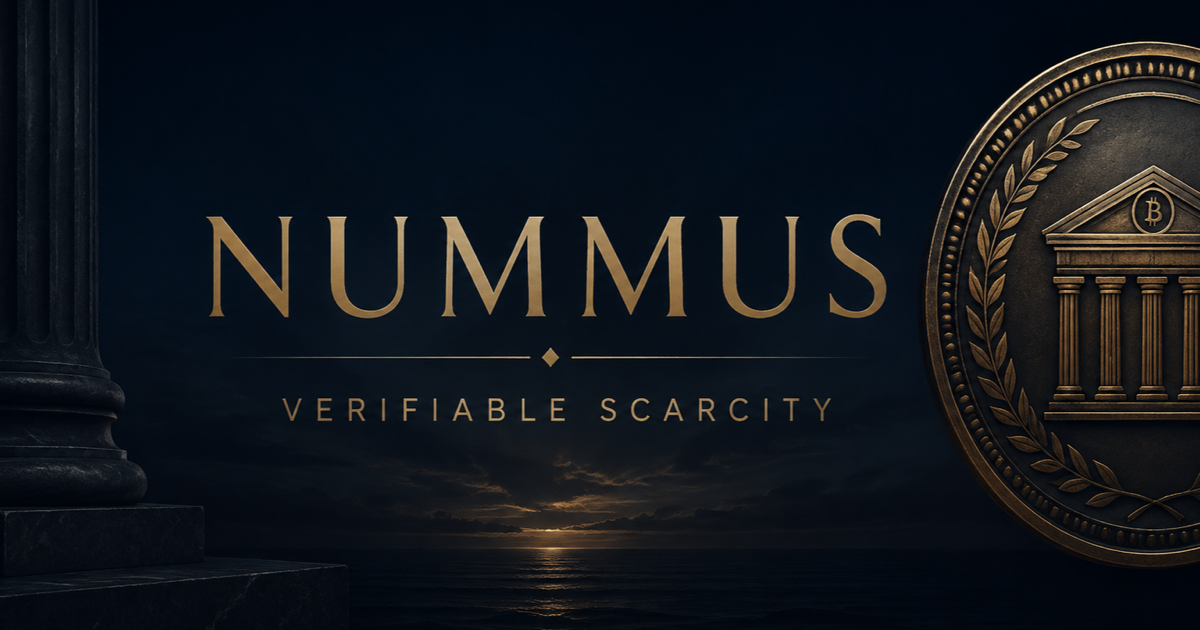
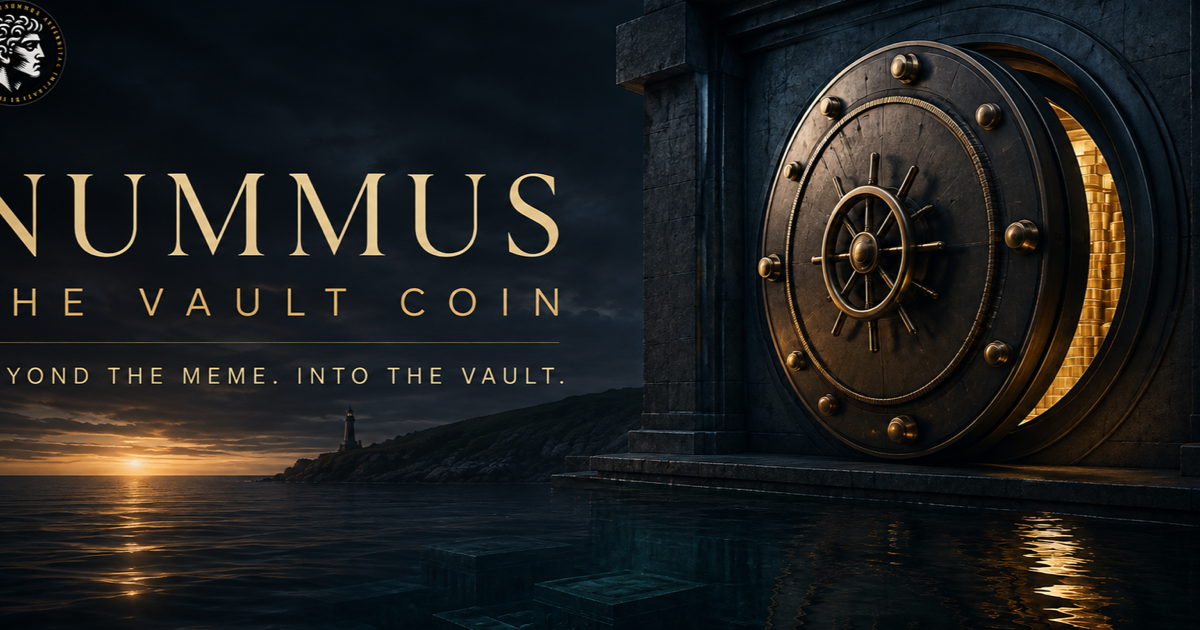
Introduce the NUMMUS Vault Coin identity

diff --git a/styles.css b/styles.css
@@ -55,20 +55,40 @@ a { color: inherit; }
 .network { margin: 0; color: var(--muted); font-size: .72rem; text-transform: uppercase; letter-spacing: .18em; }
 .network span, .status span { display: inline-block; width: 6px; height: 6px; margin-right: 9px; border-radius: 50%; background: var(--gold); box-shadow: 0 0 0 4px rgba(220,192,120,.09); }
 
-.hero { align-self: center; display: grid; grid-template-columns: minmax(0, 1.03fr) minmax(520px, .97fr); align-items: end; gap: clamp(52px, 7vw, 116px); }
+.hero {
+  position: relative; isolation: isolate; overflow: hidden; align-self: center;
+  min-height: clamp(470px, 64vh, 650px); display: grid;
+  grid-template-columns: minmax(0, 1.05fr) minmax(440px, .72fr); align-items: end;
+  gap: clamp(42px, 6vw, 96px); padding: clamp(34px, 5vh, 58px);
+  border: 1px solid rgba(220, 192, 120, .19); border-radius: 2px;
+  background: #081419; box-shadow: 0 30px 90px rgba(0, 0, 0, .32);
+}
+.hero::after {
+  content: ""; position: absolute; inset: 0; z-index: -1;
+  background:
+    linear-gradient(90deg, rgba(4, 13, 17, .97) 0%, rgba(4, 13, 17, .82) 38%, rgba(4, 13, 17, .25) 67%, rgba(4, 13, 17, .66) 100%),
+    linear-gradient(0deg, rgba(4, 13, 17, .68), transparent 45%);
+}
+.hero-art { position: absolute; inset: 0; z-index: -2; margin: 0; }
+.hero-art img { width: 100%; height: 100%; object-fit: cover; object-position: center; filter: saturate(.74) contrast(1.04); }
+.hero-copy, .metrics { position: relative; z-index: 1; }
 .eyebrow { margin: 0 0 22px; color: var(--gold); font-size: .71rem; text-transform: uppercase; letter-spacing: .28em; }
-h1 { margin: 0; max-width: 760px; font-family: Georgia, "Times New Roman", serif; font-weight: 400; font-size: clamp(3.4rem, 5.8vw, 6.9rem); line-height: .92; letter-spacing: -.055em; }
+h1 { margin: 0; max-width: 760px; font-family: Georgia, "Times New Roman", serif; font-weight: 400; font-size: clamp(3.25rem, 5.25vw, 6.25rem); line-height: .92; letter-spacing: -.055em; text-wrap: balance; }
 h1 em { color: var(--gold-pale); font-weight: 400; }
 .intro { max-width: 570px; margin: clamp(24px, 4vh, 40px) 0 0; color: #bac5c0; font-size: clamp(.98rem, 1.2vw, 1.14rem); line-height: 1.7; }
+.intro strong { color: var(--gold-pale); font-weight: 600; }
+.thesis { display: flex; align-items: center; gap: 13px; margin: 25px 0 0; color: #899a94; font-size: .62rem; letter-spacing: .16em; text-transform: uppercase; }
+.thesis span { padding: 7px 10px; border: 1px solid var(--line); color: var(--gold-pale); }
 
-.metrics { display: grid; border-top: 1px solid var(--line); }
-.metric-card { position: relative; padding: clamp(21px, 3.2vh, 36px) 0 clamp(19px, 2.8vh, 32px); border-bottom: 1px solid var(--line); }
+.metrics { display: grid; padding: 4px clamp(20px, 2.2vw, 32px); border: 1px solid rgba(220,192,120,.2); background: rgba(4, 14, 18, .78); backdrop-filter: blur(12px); }
+.metric-card { position: relative; padding: clamp(20px, 3vh, 32px) 0 clamp(18px, 2.7vh, 29px); border-bottom: 1px solid var(--line); }
+.metric-card:last-child { border-bottom: 0; }
 .metric-label { display: flex; gap: 18px; margin: 0 0 14px; color: var(--muted); font-size: .68rem; letter-spacing: .2em; text-transform: uppercase; }
 .metric-index { color: var(--gold); }
 .metric-value { margin: 0; white-space: nowrap; font-size: clamp(2.2rem, 4.25vw, 5rem); line-height: 1; letter-spacing: -.055em; font-variant-numeric: tabular-nums lining-nums; }
 .metric-value small { color: var(--gold); font-size: .22em; letter-spacing: .16em; font-weight: 650; }
 .metric-context { margin: 12px 0 0; color: #c5cfca; font-family: Georgia, serif; font-style: italic; font-size: .94rem; }
-.metric-date { position: absolute; right: 0; top: 30px; margin: 0; color: #71827d; font-size: .63rem; letter-spacing: .08em; text-transform: uppercase; }
+.metric-date { position: absolute; right: 0; top: 28px; margin: 0; color: #71827d; font-size: .6rem; letter-spacing: .08em; text-transform: uppercase; }
 
 .footer { padding-top: 20px; border-top: 1px solid rgba(255,255,255,.09); gap: 32px; }
 .verification p { margin: 0; color: var(--muted); font-size: .7rem; letter-spacing: .035em; }
@@ -83,9 +103,10 @@ a:focus-visible { outline: 2px solid var(--gold-pale); outline-offset: 4px; }
 
 @media (max-width: 980px) {
   .shell { min-height: 100dvh; }
-  .hero { grid-template-columns: 1fr; align-items: start; gap: 42px; }
+  .hero { grid-template-columns: 1fr; align-items: start; gap: 42px; padding: 40px; }
   h1 { font-size: clamp(3.3rem, 10vw, 5.8rem); }
   .metrics { grid-template-columns: 1fr 1fr; gap: 28px; }
+  .metric-card { border-bottom: 0; }
   .metric-value { font-size: clamp(2.2rem, 6.5vw, 4.2rem); }
 }
 
@@ -95,12 +116,17 @@ a:focus-visible { outline: 2px solid var(--gold-pale); outline-offset: 4px; }
   .brand { font-size: .92rem; letter-spacing: .22em; }
   .brand img { width: 48px; }
   .network { max-width: 130px; padding-top: 7px; text-align: right; font-size: .56rem; line-height: 1.55; letter-spacing: .11em; }
-  .hero { gap: 40px; }
+  .hero { display: grid; gap: 0; min-height: auto; padding: 0; border-left: 0; border-right: 0; }
+  .hero::after { background: linear-gradient(0deg, #071419 0%, rgba(7,20,25,.96) 43%, rgba(7,20,25,.08) 78%); }
+  .hero-art { position: relative; z-index: -2; height: 280px; grid-row: 1; }
+  .hero-art img { object-position: 62% center; }
+  .hero-copy { grid-row: 2; margin-top: -24px; padding: 0 20px 34px; }
   .eyebrow { margin-bottom: 16px; font-size: .62rem; }
   h1 { font-size: clamp(3rem, 14.5vw, 4.8rem); line-height: .94; }
   .intro { margin-top: 24px; font-size: .95rem; line-height: 1.62; }
-  .metrics { grid-template-columns: 1fr; gap: 0; }
+  .metrics { grid-row: 3; grid-template-columns: 1fr; gap: 0; margin: 0 20px 26px; padding: 0 18px; }
   .metric-card { padding: 23px 0 22px; }
+  .metric-card:first-child { border-bottom: 1px solid var(--line); }
   .metric-value { font-size: clamp(2.35rem, 11.2vw, 4rem); }
   .metric-date { top: 26px; }
   .footer { align-items: flex-start; flex-direction: column; gap: 22px; }
@@ -109,7 +135,7 @@ a:focus-visible { outline: 2px solid var(--gold-pale); outline-offset: 4px; }
 
 @media (max-height: 760px) and (min-width: 981px) {
   .shell { padding-top: 22px; padding-bottom: 20px; gap: 18px; }
-  .hero { gap: 60px; }
+  .hero { min-height: 470px; gap: 46px; padding-top: 30px; padding-bottom: 30px; }
   h1 { font-size: clamp(3.6rem, 5vw, 5.6rem); }
   .intro { margin-top: 22px; }
   .metric-card { padding: 19px 0 17px; }

diff --git a/index.html b/index.html
@@ -4,20 +4,20 @@
     <meta charset="UTF-8">
     <meta name="viewport" content="width=device-width, initial-scale=1">
     <meta name="theme-color" content="#071419">
-    <meta name="description" content="NUMMUS is anchored to a transparent Bitcoin reserve and a verifiable on-chain burn policy.">
+    <meta name="description" content="NUMMUS introduces the Vault Coin: a new on-chain model anchored to a transparent Bitcoin reserve and verifiable burns.">
     <meta property="og:type" content="website">
-    <meta property="og:title" content="NUMMUS — Verifiable scarcity">
-    <meta property="og:description" content="A transparent Bitcoin reserve and verifiable on-chain burn policy, built on Solana.">
+    <meta property="og:title" content="NUMMUS — The Vault Coin">
+    <meta property="og:description" content="Beyond the meme: a new on-chain model anchored to a transparent Bitcoin reserve and verifiable burns.">
     <meta property="og:image" content="https://happydao.github.io/Nummus.Aeternitas/assets/og.png">
     <meta property="og:url" content="https://happydao.github.io/Nummus.Aeternitas/">
     <meta name="twitter:card" content="summary_large_image">
-    <meta name="twitter:title" content="NUMMUS — Verifiable scarcity">
-    <meta name="twitter:description" content="A transparent Bitcoin reserve and verifiable on-chain burn policy, built on Solana.">
+    <meta name="twitter:title" content="NUMMUS — The Vault Coin">
+    <meta name="twitter:description" content="Beyond the meme: a new on-chain model anchored to a transparent Bitcoin reserve and verifiable burns.">
     <meta name="twitter:image" content="https://happydao.github.io/Nummus.Aeternitas/assets/og.png">
     <link rel="icon" type="image/png" href="./assets/favicon.png">
     <link rel="preload" href="./assets/nummus-logo.png" as="image">
     <link rel="stylesheet" href="./styles.css">
-    <title>NUMMUS — Verifiable scarcity</title>
+    <title>NUMMUS — The Vault Coin</title>
   </head>
   <body>
     <div class="atmosphere" aria-hidden="true"><span></span><span></span><span></span></div>
@@ -31,10 +31,14 @@
       </header>
 
       <section class="hero" aria-labelledby="hero-title">
+        <figure class="hero-art">
+          <img src="./assets/vault-hero.jpg" alt="A monumental coin-like vault overlooking a calm sea, symbolizing reserve and permanence" width="1536" height="1024">
+        </figure>
         <div class="hero-copy">
-          <p class="eyebrow">Aeternitas · Verifiable scarcity</p>
-          <h1 id="hero-title">Reserved in Bitcoin.<br><em>Reduced on-chain.</em></h1>
-          <p class="intro">NUMMUS is tied to a transparent Bitcoin reserve and a verifiable burn policy—designed for clarity, scarcity, and permanence.</p>
+          <p class="eyebrow">Introducing a new category</p>
+          <h1 id="hero-title">Beyond the meme.<br><em>Into the vault.</em></h1>
+          <p class="intro">NUMMUS is evolving beyond the meme coin into a <strong>Vault Coin</strong>—an on-chain model anchored to a transparent Bitcoin reserve and disciplined by verifiable burns.</p>
+          <p class="thesis"><span>Vault Coin</span> Reserve · Scarcity · Proof</p>
         </div>
 
         <div class="metrics" aria-label="Verified NUMMUS treasury metrics">
